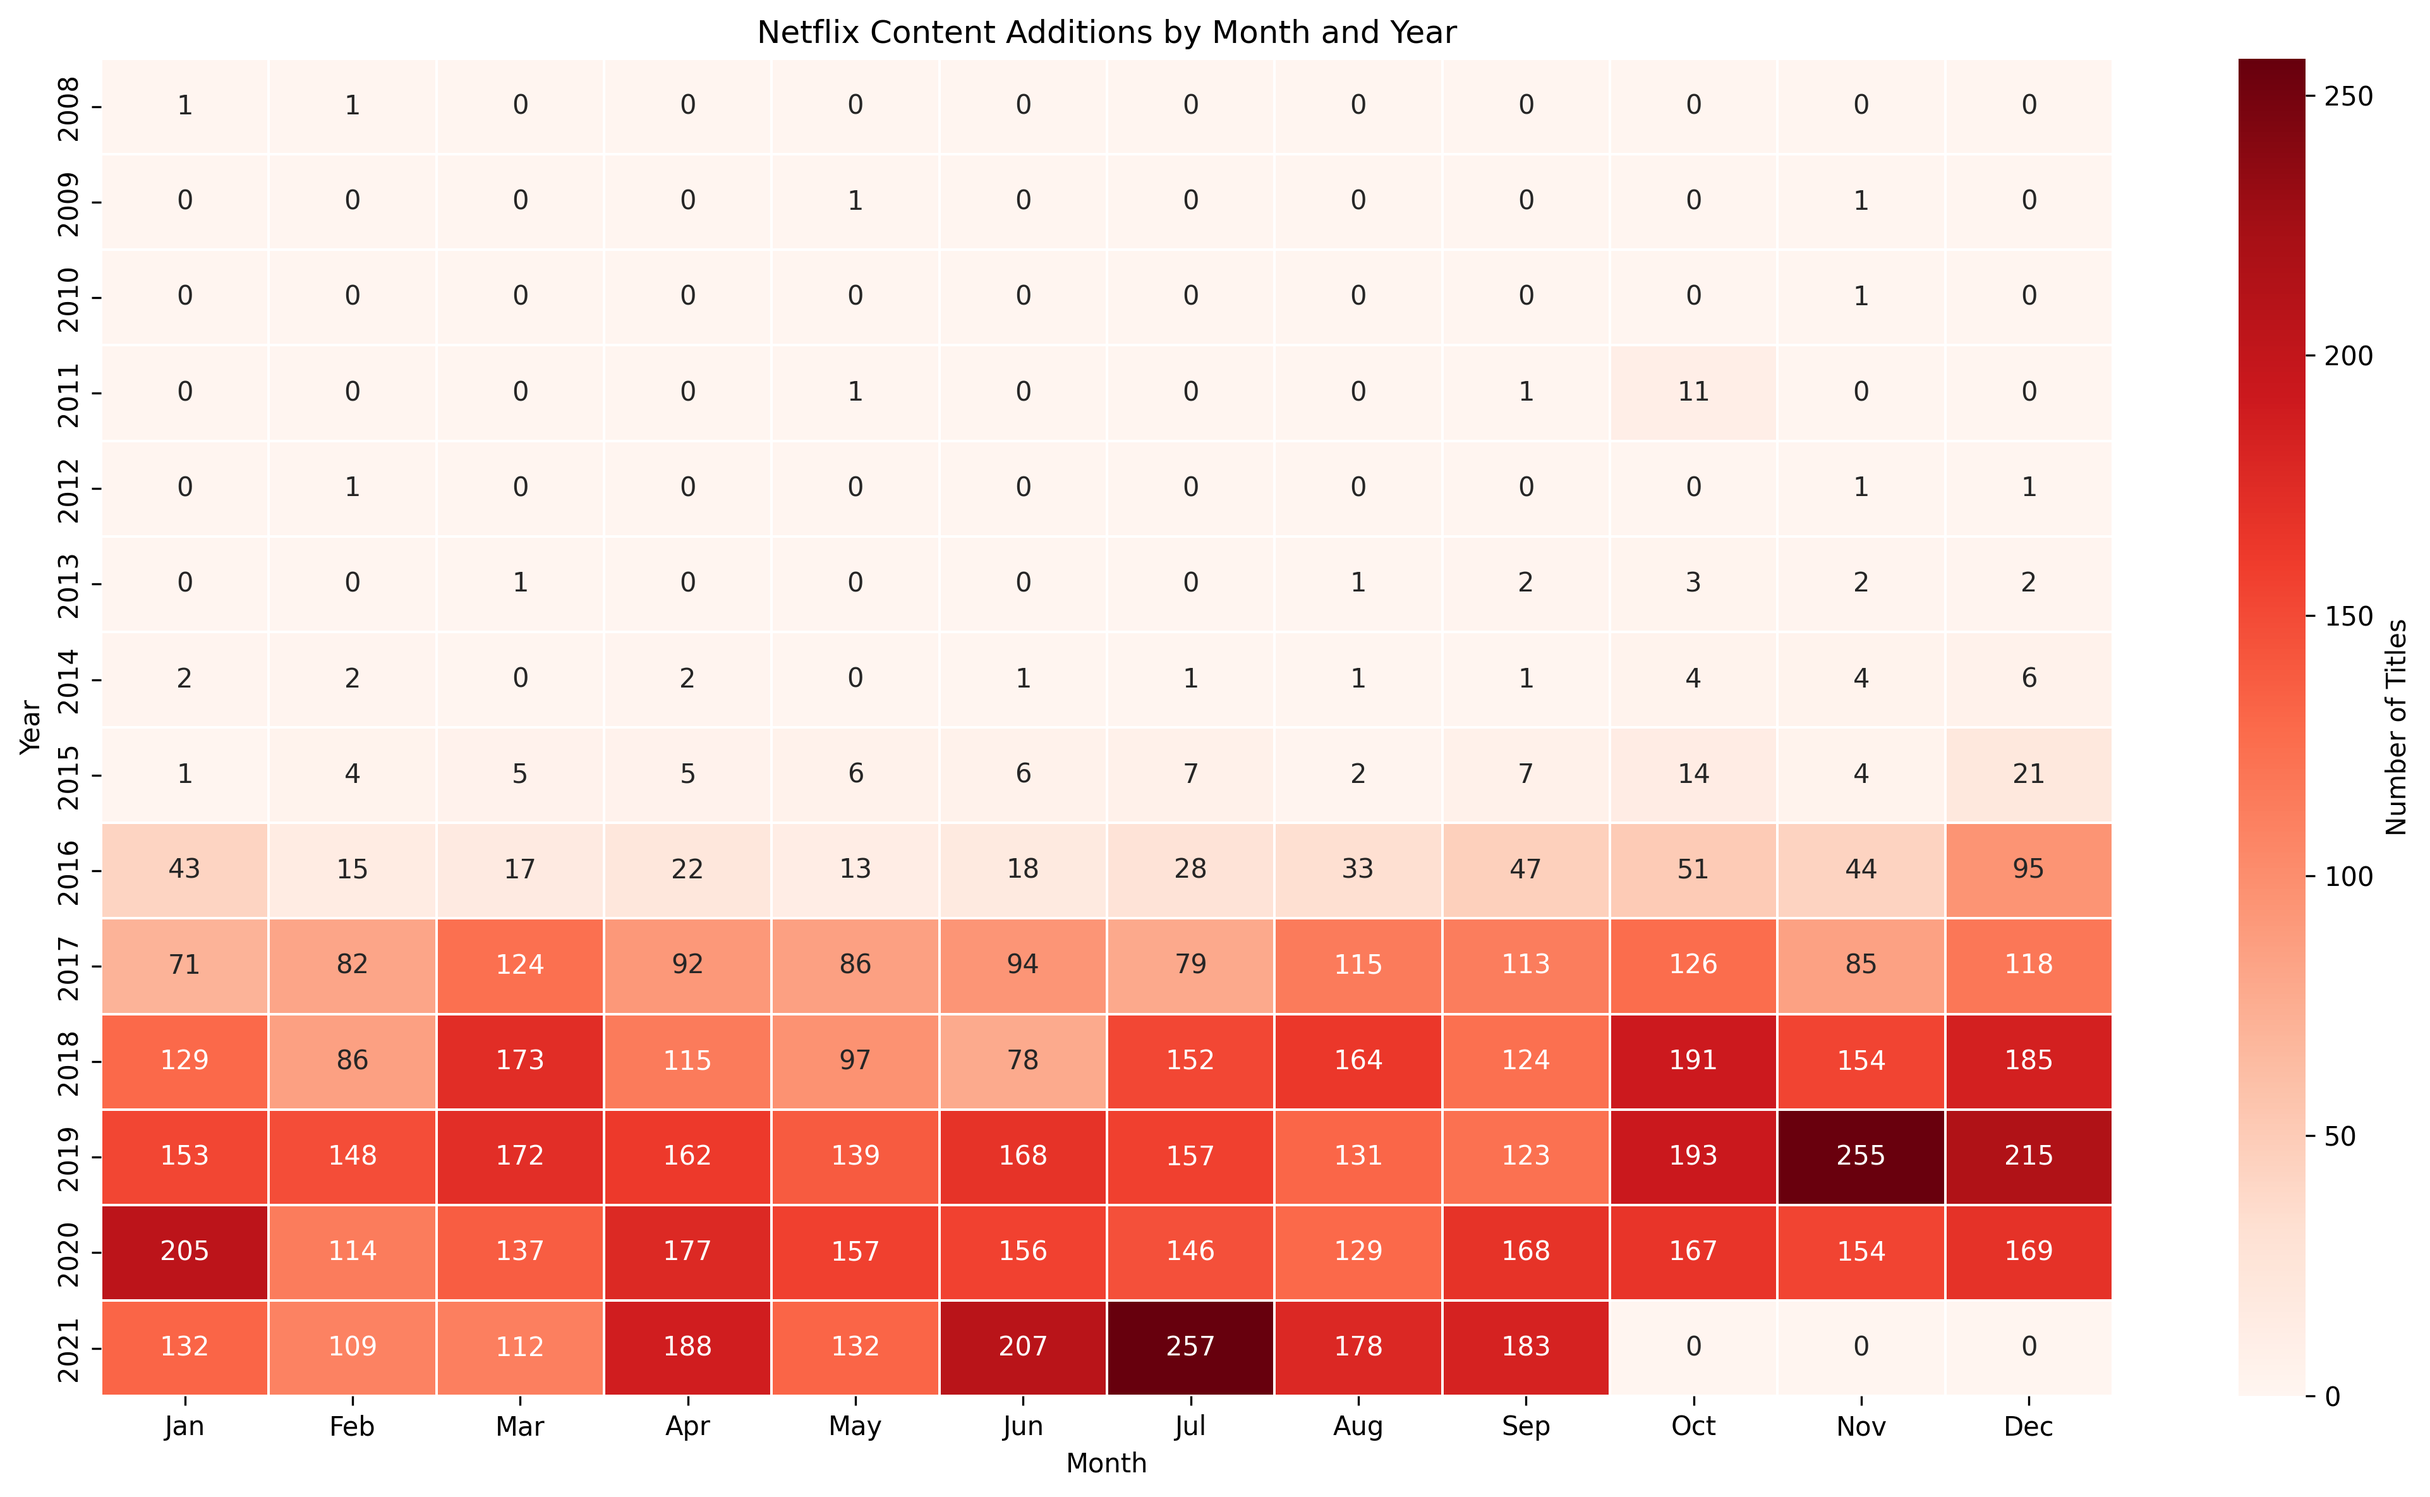
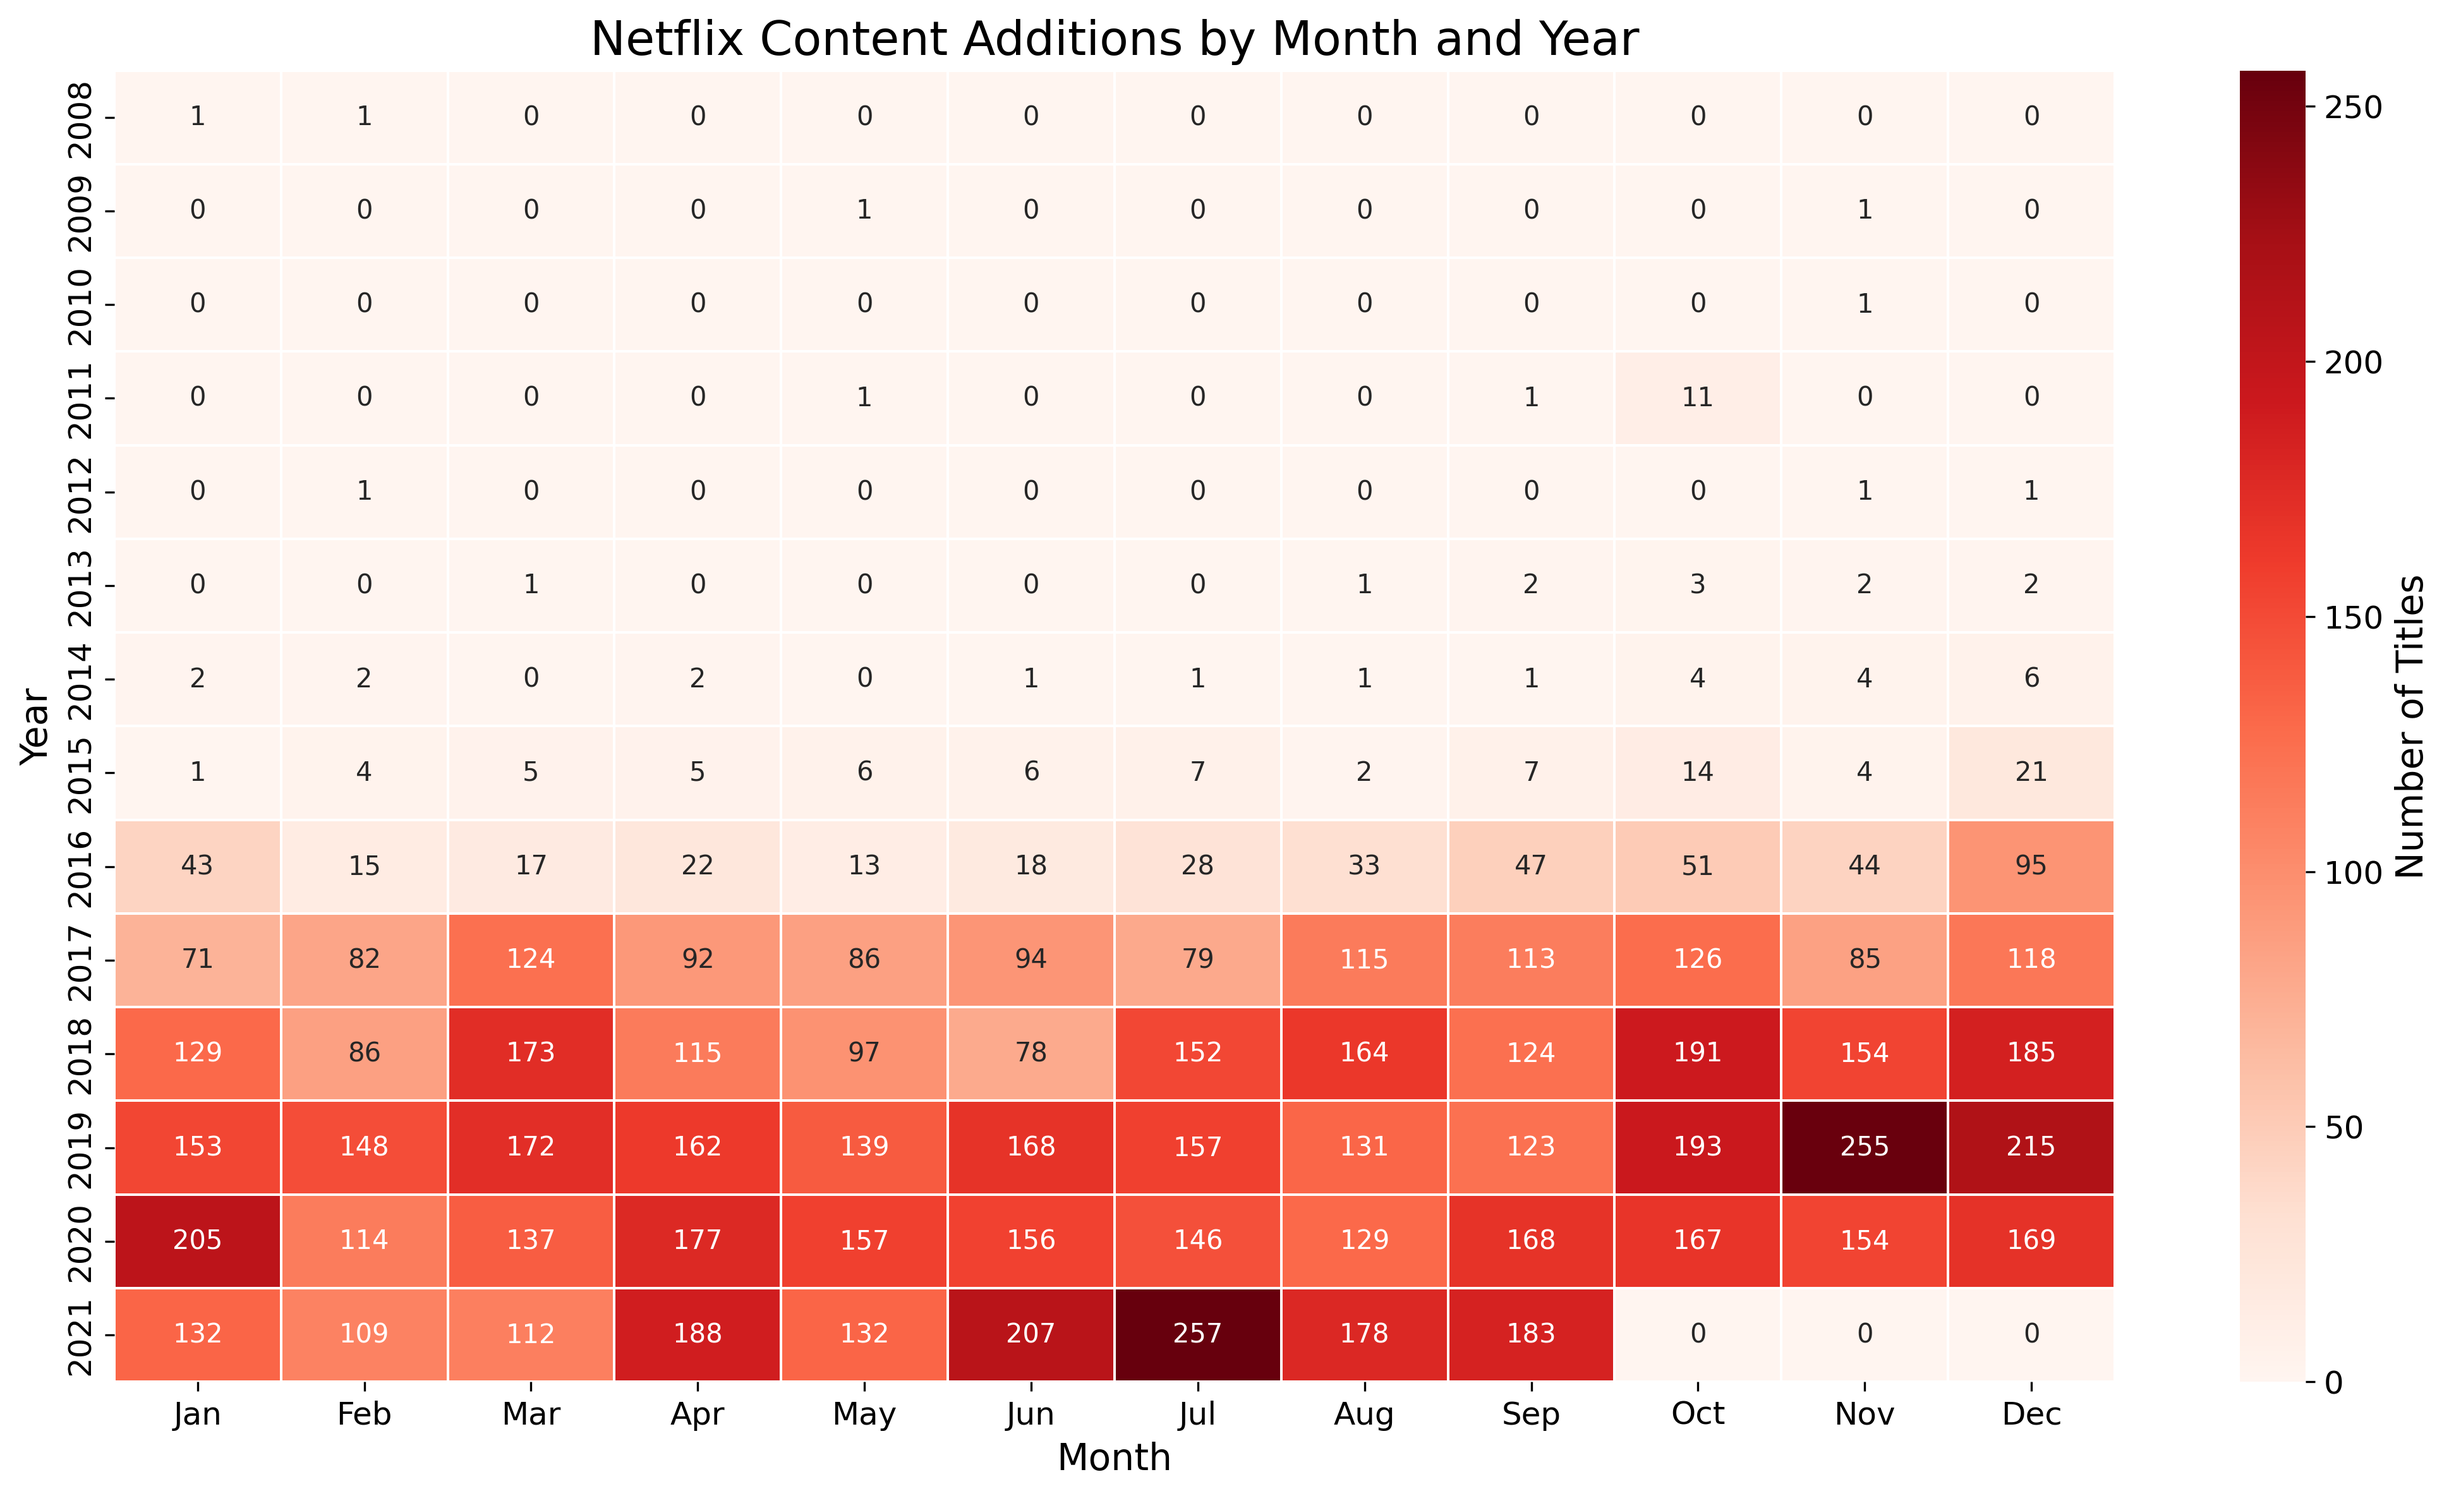
feat: bigger titles, labels

diff --git a/src/plot_figures.py b/src/plot_figures.py
@@ -3,6 +3,12 @@ import analyze_data as analyze
 import seaborn as sns
 import os
 
+plt.rcParams["axes.titlesize"] = 18
+plt.rcParams["axes.labelsize"] = 14
+plt.rcParams["xtick.labelsize"] = 12
+plt.rcParams["ytick.labelsize"] = 12
+plt.rcParams["legend.fontsize"] = 12
+
 
 def ensure_output_dir():
     """Ensure the outputs directory exists"""
